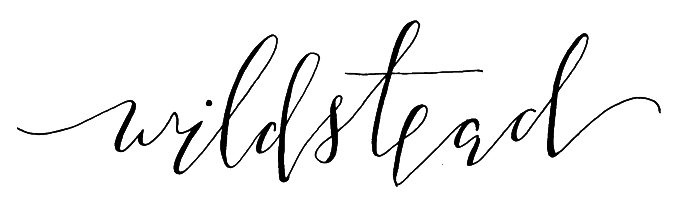
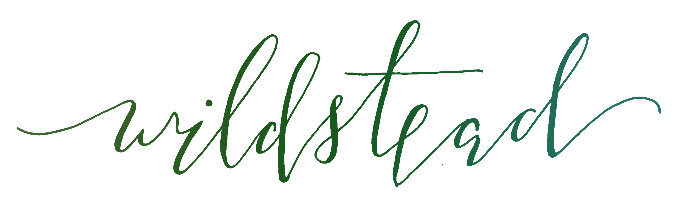
wild stead
update stuff and fucking whatever

diff --git a/source/stylesheets/lib/common.css.scss b/source/stylesheets/lib/common.css.scss
@@ -17,7 +17,7 @@ body, textarea, input, select, option {
 
 body {
   background: #fff;
-  border-top: solid $body-top-border-color 12px;
+  border-top: solid $body-top-border-color 4px;
   color: #444;
   overflow: visible;
   padding-top: 2.45em; // room for the nav, here
@@ -44,9 +44,9 @@ a, a:link, a:visited, a:hover, a:active, a:focus {
 }
 
 header {
-  background: url('/images/header.png') 50% center no-repeat;
-  background-size: 370px auto;
-  height: 8em;
+  background: url('/images/header2.png') 50% center no-repeat;
+  background-size: 250px auto;
+  height: 7em;
   margin: auto;
   text-indent: -10000px;
   width: 70em;

diff --git a/source/stylesheets/lib/_variables.css.scss b/source/stylesheets/lib/_variables.css.scss
@@ -1,4 +1,4 @@
-$body-top-border-color: #a06f98;
+$body-top-border-color: #3c7360;
 
 $color-primary:     #a06f98;
 $color-secondary:  #412314;
